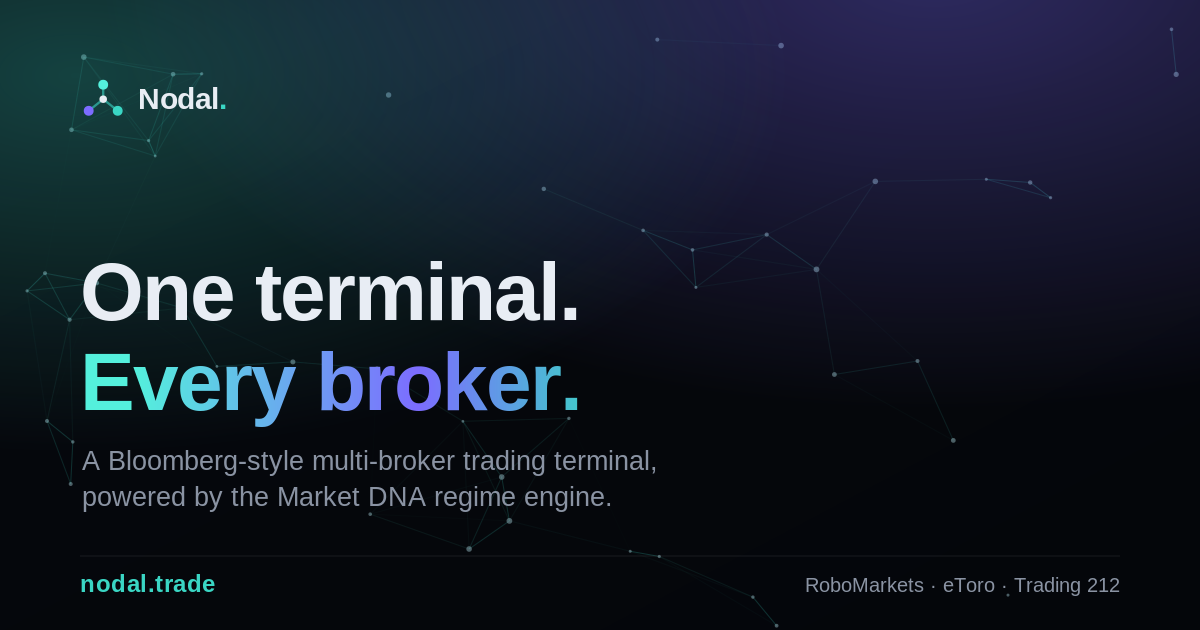
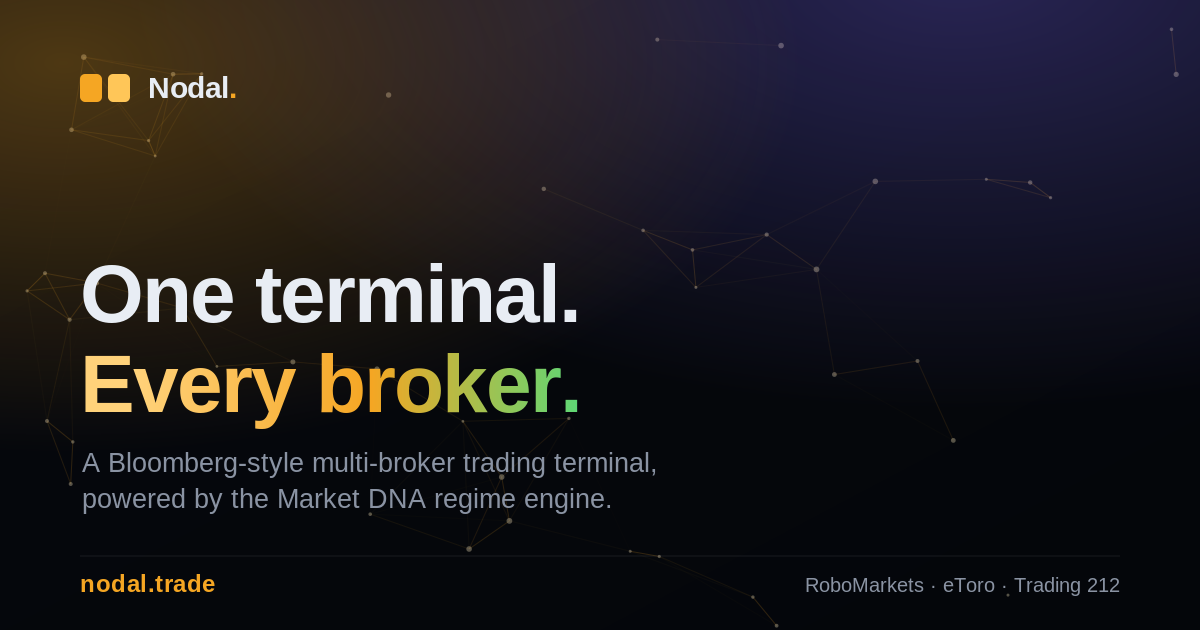
1.2
color changes

diff --git a/index.html b/index.html
@@ -43,7 +43,7 @@
     --red:#ff5d6c;
     --violet:#7c6cff;
     --amber:#f5a623;
-    --glow:rgba(58,214,196,.5);
+    --glow:rgba(245,166,35,.45);
     --mono:'JetBrains Mono', ui-monospace, SFMono-Regular, Menlo, monospace;
     --sans:'Inter', system-ui, -apple-system, sans-serif;
     --maxw:1140px;
@@ -59,16 +59,16 @@
     overflow-x:hidden;
   }
   a{color:inherit;text-decoration:none}
-  ::selection{background:var(--cyan);color:#04130f}
+  ::selection{background:var(--amber);color:#1a1206}
 
   /* layout */
   .wrap{max-width:var(--maxw);margin:0 auto;padding:0 24px}
   section{position:relative;z-index:2}
   .eyebrow{
     font-family:var(--mono);font-size:12px;letter-spacing:.28em;text-transform:uppercase;
-    color:var(--cyan);display:inline-flex;align-items:center;gap:9px;
+    color:var(--amber);display:inline-flex;align-items:center;gap:9px;
   }
-  .eyebrow::before{content:"";width:22px;height:1px;background:var(--cyan);opacity:.7}
+  .eyebrow::before{content:"";width:22px;height:1px;background:var(--amber);opacity:.7}
 
   /* ===== background canvas ===== */
   #net{position:fixed;inset:0;width:100%;height:100%;z-index:0;pointer-events:none}
@@ -76,7 +76,7 @@
     position:fixed;inset:0;z-index:0;pointer-events:none;
     background:
       radial-gradient(900px 600px at 75% -5%, rgba(124,108,255,.16), transparent 60%),
-      radial-gradient(800px 600px at 10% 10%, rgba(58,214,196,.12), transparent 55%),
+      radial-gradient(800px 600px at 10% 10%, rgba(245,166,35,.13), transparent 55%),
       linear-gradient(180deg, #05070a 0%, #06080d 60%, #04060a 100%);
   }
   .grid-overlay{
@@ -97,13 +97,13 @@
   .nav-inner{display:flex;align-items:center;justify-content:space-between;height:66px}
   .brand{display:flex;align-items:center;gap:11px;font-weight:700;font-size:18px;letter-spacing:-.01em}
   .brand .logo{width:26px;height:26px}
-  .brand .dot{color:var(--cyan)}
+  .brand .dot{color:var(--amber)}
   .nav-links{display:flex;gap:30px;align-items:center}
   .nav-links a{color:var(--muted);font-size:14px;font-weight:500;transition:color .2s}
   .nav-links a:hover{color:var(--txt)}
   .nav-cta{
     font-family:var(--sans);font-weight:600;font-size:14px;
-    padding:9px 18px;border-radius:9px;color:#04130f;background:var(--cyan);
+    padding:9px 18px;border-radius:9px;color:#1a1206;background:var(--amber);
     transition:transform .15s,box-shadow .25s;box-shadow:0 0 0 rgba(58,214,196,0);
   }
   .nav-cta:hover{transform:translateY(-1px);box-shadow:0 8px 26px -8px var(--glow)}
@@ -124,7 +124,7 @@
     margin:0 auto 22px;max-width:16ch;
   }
   h1.hero-title .accent{
-    background:linear-gradient(110deg,var(--cyan-bright),var(--violet) 60%,var(--cyan));
+    background:linear-gradient(110deg,#ffd27a,var(--amber) 50%,var(--green));
     -webkit-background-clip:text;background-clip:text;color:transparent;
     background-size:200% auto;animation:shimmer 6s linear infinite;white-space:nowrap;
   }
@@ -141,20 +141,20 @@
   @keyframes heroIn{from{opacity:0;transform:translateY(24px);filter:blur(7px)}to{opacity:1;transform:none;filter:blur(0)}}
 
   /* rotating noun in headline */
-  .rot{display:inline-block;position:relative;will-change:transform,opacity;background:linear-gradient(110deg,var(--cyan-bright),var(--violet) 60%,var(--cyan));-webkit-background-clip:text;background-clip:text;color:transparent}
+  .rot{display:inline-block;position:relative;will-change:transform,opacity;background:linear-gradient(110deg,#ffd27a,var(--amber) 50%,var(--green));-webkit-background-clip:text;background-clip:text;color:transparent}
   .rot.out{animation:rotOut .42s cubic-bezier(.55,0,.3,1) forwards}
   .rot.in{animation:rotIn .5s cubic-bezier(.22,1,.36,1)}
   @keyframes rotOut{to{opacity:0;transform:translateY(-26px);filter:blur(5px)}}
   @keyframes rotIn{from{opacity:0;transform:translateY(28px);filter:blur(5px)}to{opacity:1;transform:none;filter:blur(0)}}
   /* blinking caret after headline */
-  .caret{display:inline-block;width:3px;height:.92em;margin-left:6px;vertical-align:-2px;background:var(--cyan);border-radius:2px;animation:blink 1.05s step-end infinite;box-shadow:0 0 10px var(--glow)}
+  .caret{display:inline-block;width:3px;height:.92em;margin-left:6px;vertical-align:-2px;background:var(--amber);border-radius:2px;animation:blink 1.05s step-end infinite;box-shadow:0 0 10px var(--glow)}
   @keyframes blink{0%,100%{opacity:1}50%{opacity:0}}
 
   /* ===== hero terminal preview ===== */
   .term-wrap{margin:56px auto 0;max-width:1000px;perspective:1800px}
   .term{position:relative;text-align:left;border:1px solid var(--border-strong);border-radius:14px;overflow:hidden;
     background:linear-gradient(180deg,#0a0d13,#06090e);
-    box-shadow:0 50px 130px -50px rgba(0,0,0,.85),0 0 70px -24px rgba(58,214,196,.18);
+    box-shadow:0 50px 130px -50px rgba(0,0,0,.85),0 0 70px -24px rgba(245,166,35,.18);
     font-family:var(--mono);font-size:12px;color:#c6cddb;animation:floaty 8s ease-in-out infinite}
   @keyframes floaty{0%,100%{transform:translateY(0)}50%{transform:translateY(-12px)}}
   .term-bar{display:flex;justify-content:space-between;align-items:center;gap:10px;padding:9px 14px;border-bottom:1px solid var(--border);background:rgba(255,255,255,.02);font-size:11px;white-space:nowrap}
@@ -230,7 +230,7 @@
   .bk-etoro{color:#86e6c8;border-color:var(--cyan)}
   .side-buy{color:var(--green);font-weight:600}.side-sell{color:var(--red);font-weight:600}
   .ex-new{animation:exNew .9s ease}
-  @keyframes exNew{0%{background:rgba(58,214,196,.18)}100%{background:transparent}}
+  @keyframes exNew{0%{background:rgba(245,166,35,.18)}100%{background:transparent}}
   @media(prefers-reduced-motion:reduce){.term{animation:none}}
   .hero-sub{font-size:clamp(16px,2vw,20px);color:var(--muted);max-width:60ch;margin:0 auto 38px}
   .hero-sub b{color:var(--txt);font-weight:600}
@@ -239,10 +239,10 @@
     display:inline-flex;align-items:center;gap:9px;font-weight:600;font-size:15px;
     padding:14px 26px;border-radius:11px;transition:transform .15s,box-shadow .25s,background .2s,border-color .2s;cursor:pointer;
   }
-  .btn-primary{color:#04130f;background:var(--cyan);box-shadow:0 10px 40px -12px var(--glow)}
-  .btn-primary:hover{transform:translateY(-2px);box-shadow:0 16px 50px -10px var(--glow);background:var(--cyan-bright)}
+  .btn-primary{color:#1a1206;background:var(--amber);box-shadow:0 10px 40px -12px var(--glow)}
+  .btn-primary:hover{transform:translateY(-2px);box-shadow:0 16px 50px -10px var(--glow);background:#ffbe4d}
   .btn-ghost{color:var(--txt);background:var(--panel);border:1px solid var(--border-strong)}
-  .btn-ghost:hover{transform:translateY(-2px);border-color:var(--cyan);color:var(--cyan)}
+  .btn-ghost:hover{transform:translateY(-2px);border-color:var(--amber);color:var(--amber)}
   .btn svg{width:16px;height:16px}
 
   /* ticker */
@@ -271,21 +271,21 @@
     position:relative;background:var(--panel);border:1px solid var(--border);border-radius:16px;padding:28px;
     overflow:hidden;transition:border-color .3s,transform .3s,background .3s;
   }
-  .card::after{content:"";position:absolute;inset:0;border-radius:16px;padding:1px;background:linear-gradient(135deg,var(--cyan),transparent 40%);-webkit-mask:linear-gradient(#000 0 0) content-box,linear-gradient(#000 0 0);-webkit-mask-composite:xor;mask-composite:exclude;opacity:0;transition:opacity .3s}
+  .card::after{content:"";position:absolute;inset:0;border-radius:16px;padding:1px;background:linear-gradient(135deg,var(--amber),transparent 40%);-webkit-mask:linear-gradient(#000 0 0) content-box,linear-gradient(#000 0 0);-webkit-mask-composite:xor;mask-composite:exclude;opacity:0;transition:opacity .3s}
   .card:hover{transform:translateY(-4px);background:rgba(255,255,255,.04)}
   .card:hover::after{opacity:.6}
-  .card .ico{width:42px;height:42px;border-radius:11px;display:grid;place-items:center;background:rgba(58,214,196,.1);border:1px solid rgba(58,214,196,.25);margin-bottom:18px}
-  .card .ico svg{width:21px;height:21px;stroke:var(--cyan)}
+  .card .ico{width:42px;height:42px;border-radius:11px;display:grid;place-items:center;background:rgba(245,166,35,.1);border:1px solid rgba(245,166,35,.28);margin-bottom:18px}
+  .card .ico svg{width:21px;height:21px;stroke:var(--amber)}
   .card h3{font-size:18.5px;font-weight:700;letter-spacing:-.01em;margin-bottom:9px}
   .card p{color:var(--muted);font-size:14.5px}
-  .card .tag{display:inline-block;margin-top:14px;font-family:var(--mono);font-size:11px;letter-spacing:.1em;text-transform:uppercase;color:var(--cyan);opacity:.8}
+  .card .tag{display:inline-block;margin-top:14px;font-family:var(--mono);font-size:11px;letter-spacing:.1em;text-transform:uppercase;color:var(--amber);opacity:.8}
 
   /* stats */
   .stats{display:grid;grid-template-columns:repeat(4,1fr);gap:18px;margin-top:34px}
   @media(max-width:760px){.stats{grid-template-columns:repeat(2,1fr)}}
   .stat{border:1px solid var(--border);border-radius:14px;padding:24px;background:var(--panel)}
   .stat .num{font-family:var(--mono);font-size:34px;font-weight:700;color:var(--txt);letter-spacing:-.02em}
-  .stat .num .u{color:var(--cyan)}
+  .stat .num .u{color:var(--amber)}
   .stat .lbl{color:var(--muted);font-size:13px;margin-top:6px}
 
   /* brokers */
@@ -309,7 +309,7 @@
   .step:not(:last-child)::after{content:"";position:absolute;top:21px;right:-2px;width:4px;height:4px}
   .step .n{
     width:44px;height:44px;border-radius:12px;display:grid;place-items:center;font-family:var(--mono);font-weight:700;
-    color:var(--cyan);background:rgba(58,214,196,.08);border:1px solid rgba(58,214,196,.3);margin-bottom:18px;font-size:16px;
+    color:var(--amber);background:rgba(245,166,35,.08);border:1px solid rgba(245,166,35,.32);margin-bottom:18px;font-size:16px;
   }
   .step h4{font-size:17px;font-weight:700;margin-bottom:8px}
   .step p{color:var(--muted);font-size:14px}
@@ -349,13 +349,7 @@
   <header class="nav" id="nav">
     <div class="wrap nav-inner">
       <a href="#" class="brand">
-        <svg class="logo" viewBox="0 0 32 32" fill="none">
-          <circle cx="16" cy="6" r="3.2" fill="#3ad6c4"/>
-          <circle cx="6" cy="24" r="3.2" fill="#7c6cff"/>
-          <circle cx="26" cy="24" r="3.2" fill="#3ad6c4"/>
-          <circle cx="16" cy="16" r="2.4" fill="#e8edf4"/>
-          <path d="M16 6 16 16 6 24M16 16 26 24" stroke="#3ad6c4" stroke-width="1.4" opacity=".55"/>
-        </svg>
+        <svg class="logo" viewBox="0 0 32 32" fill="none"><rect x="4" y="9" width="11" height="14" rx="2.5" fill="#f5a623"/><rect x="17" y="9" width="11" height="14" rx="2.5" fill="#ffc658"/></svg>
         Nodal<span class="dot">.</span>
       </a>
       <nav class="nav-links">
@@ -552,11 +546,7 @@
       <div class="foot-top">
         <div class="foot-brand">
           <a href="#" class="brand">
-            <svg class="logo" viewBox="0 0 32 32" fill="none">
-              <circle cx="16" cy="6" r="3.2" fill="#3ad6c4"/><circle cx="6" cy="24" r="3.2" fill="#7c6cff"/>
-              <circle cx="26" cy="24" r="3.2" fill="#3ad6c4"/><circle cx="16" cy="16" r="2.4" fill="#e8edf4"/>
-              <path d="M16 6 16 16 6 24M16 16 26 24" stroke="#3ad6c4" stroke-width="1.4" opacity=".55"/>
-            </svg>
+            <svg class="logo" viewBox="0 0 32 32" fill="none"><rect x="4" y="9" width="11" height="14" rx="2.5" fill="#f5a623"/><rect x="17" y="9" width="11" height="14" rx="2.5" fill="#ffc658"/></svg>
             Nodal<span class="dot">.</span>
           </a>
           <p>A multi-broker trading terminal. One execution surface for every account you run.</p>
@@ -788,7 +778,7 @@
           const dx=a.x-b.x,dy=a.y-b.y,d=Math.hypot(dx,dy);
           if(d<link){
             const o=(1-d/link)*.45;
-            ctx.strokeStyle='rgba(58,214,196,'+o+')';
+            ctx.strokeStyle='rgba(245,166,35,'+o+')';
             ctx.lineWidth=.6*dpr;
             ctx.beginPath();ctx.moveTo(a.x,a.y);ctx.lineTo(b.x,b.y);ctx.stroke();
           }
@@ -798,9 +788,9 @@
         const dm=Math.hypot(mouse.x-n.x,mouse.y-n.y);
         const near=dm<180*dpr;
         ctx.beginPath();ctx.arc(n.x,n.y,n.r,0,7);
-        ctx.fillStyle=near?'rgba(84,240,220,.95)':'rgba(160,200,210,.55)';
+        ctx.fillStyle=near?'rgba(255,206,133,.95)':'rgba(190,180,160,.5)';
         ctx.fill();
-        if(near){ctx.beginPath();ctx.arc(n.x,n.y,n.r*3,0,7);ctx.fillStyle='rgba(58,214,196,.10)';ctx.fill();}
+        if(near){ctx.beginPath();ctx.arc(n.x,n.y,n.r*3,0,7);ctx.fillStyle='rgba(245,166,35,.12)';ctx.fill();}
       }
       requestAnimationFrame(frame);
     }